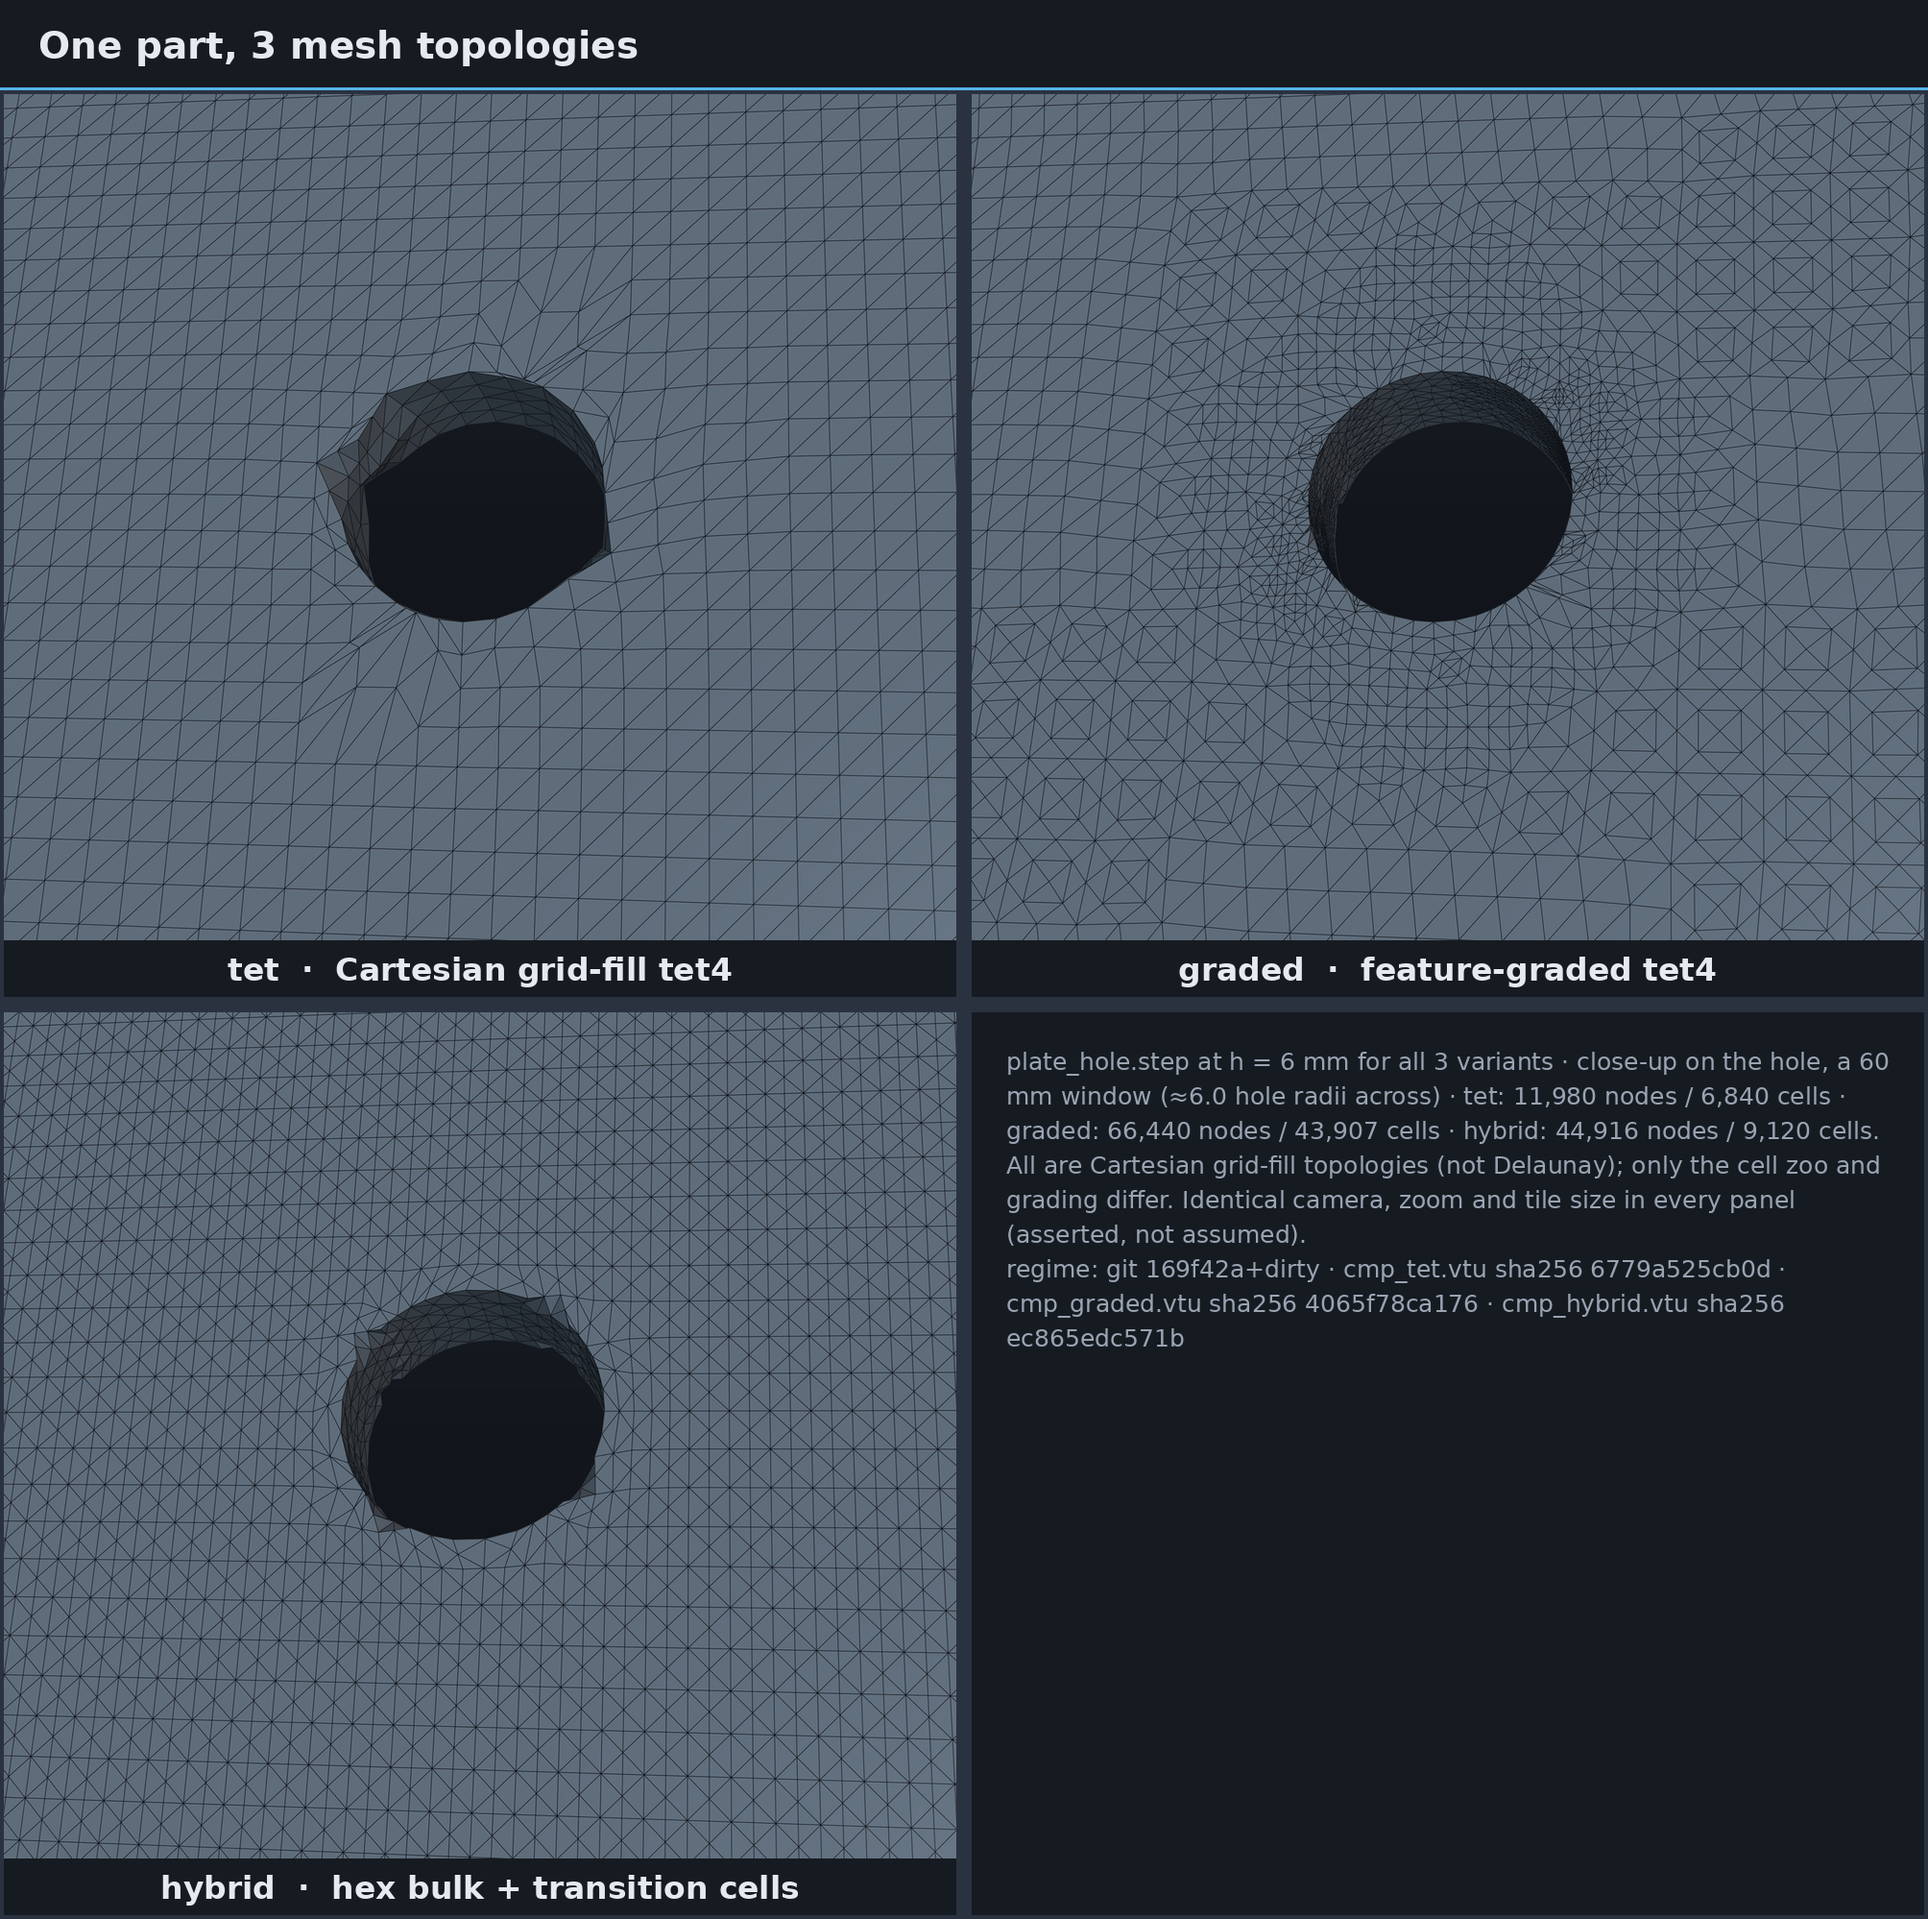
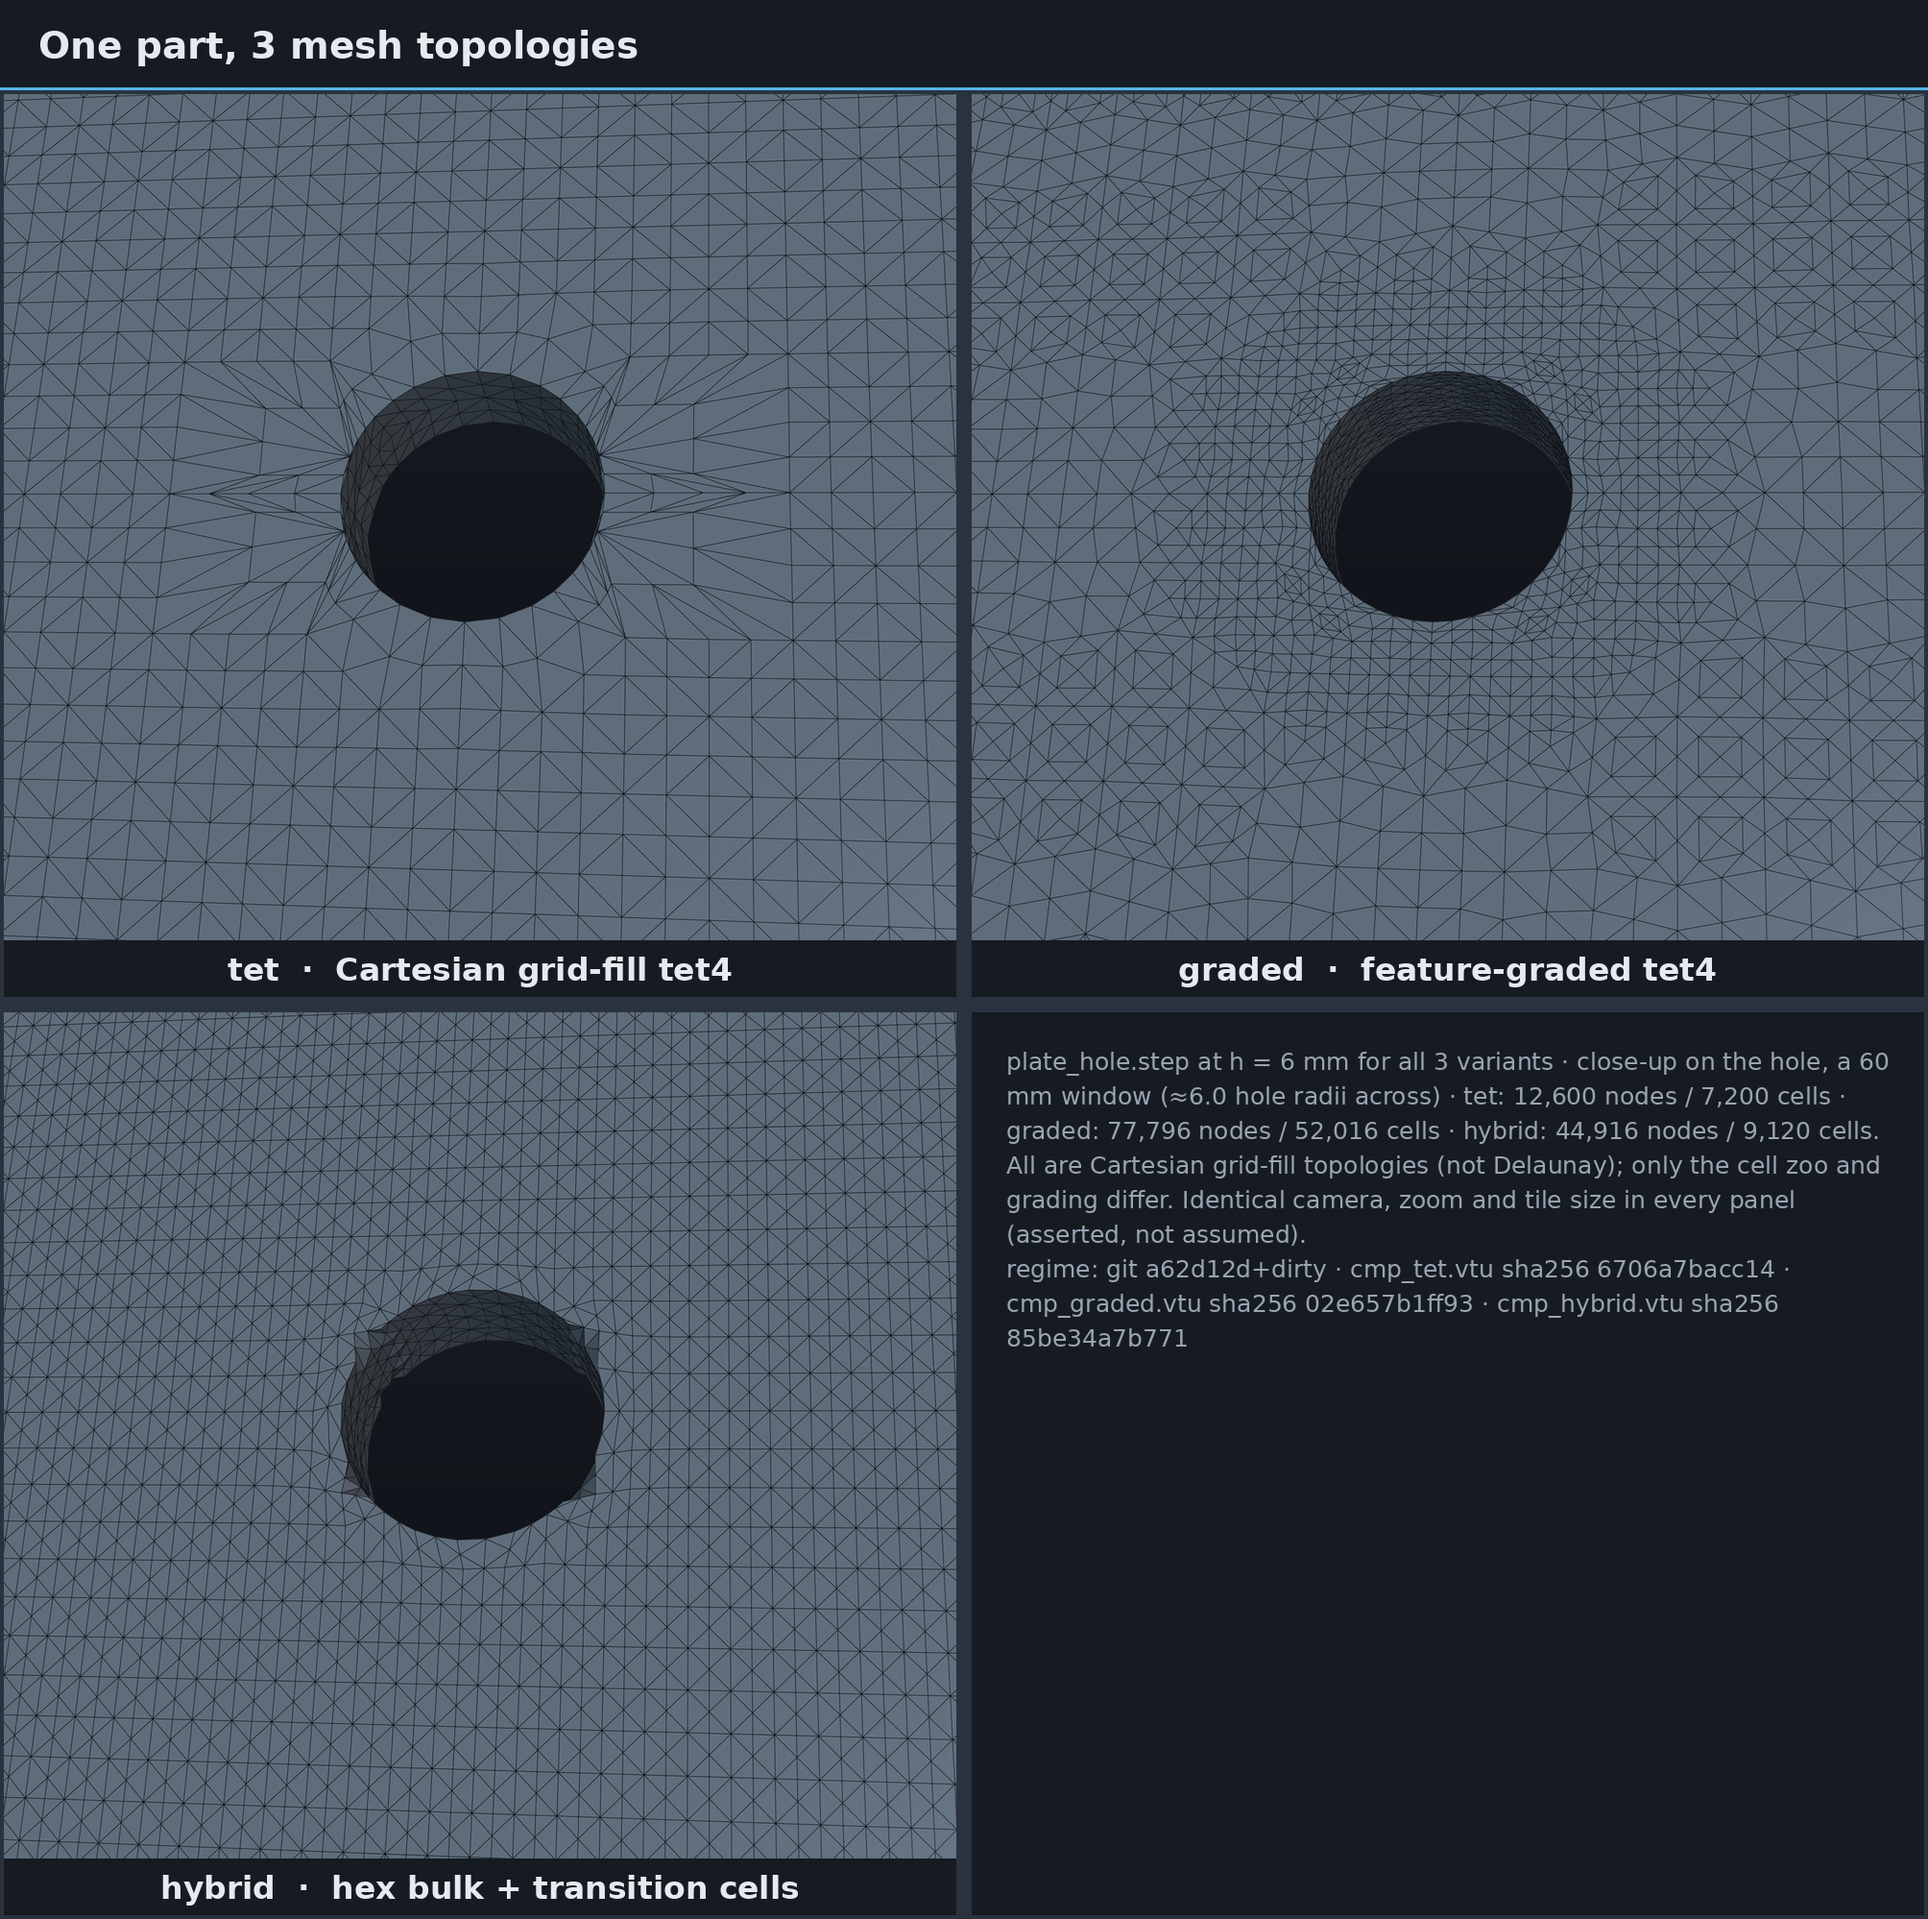
Regenerate the showcase on the symmetric mesher
Every artifact in docs/assets/showcase/ is re-rendered from fresh solves at
a62d12d, which is the point of the exercise: the previous set was solved at
169f42a and shows the asymmetric element pattern the last three commits removed.
The sphere gallery no longer carries the speckled fine-element patches around its
pole and seam, and the tet panel of compare_meshers.png shows a symmetric bore
instead of a lopsided one.

Element counts moved with the even-cell mirror-symmetric lattice, so the prose in
docs/SHOWCASE.md is re-synced to the new manifest — DOF, cell counts and wall
times for all five gallery parts and both comparison figures.

compare_grading.png's uniform leg is re-tuned from h = 3.8 mm to 4.2 mm. That
figure exists to compare where elements go at a MATCHED element budget, and the
new lattice put the old pairing 21.4% apart, which would have made the control
meaningless. 4.2 mm gives 43,024 cells against the graded leg's 45,424 — 5.6%
apart, and the neighbouring lattice step is 48,256, so this is the closest pairing
the quantisation allows. The number is stated in the tile footer and the manifest,
not just in the prose.

Cylinder's solve wall time halved (684 s -> 294 s) and the cone's rose 282k -> 381k
DOF; both are the even-cell lattice moving cell counts, not a solver change.

diff --git a/scripts/render_showcase.py b/scripts/render_showcase.py
@@ -349,10 +349,14 @@ GRADE_VIEW = (0.15, -0.35, 1.00)
 GRADE_UP = (0.0, 1.00, 0.35)
 GRADING_TILES = [
     MeshTile("grade_uniform", "uniform sizing field  (--no-feature)", "plate_hole",
-             # 3.8 mm against the graded leg's 5.6 mm is the matched-element-budget
+             # 4.2 mm against the graded leg's 5.6 mm is the matched-element-budget
              # control this figure exists for; promotion adds no cells, so curved
-             # geometry does not change the pairing.
-             "graded", 0.0038, no_feature=True, size=(GRADE_W, GRADE_H),
+             # geometry does not change the pairing. Re-tuned from 3.8 mm when the
+             # mirror-symmetric even-cell lattice (ADR-0036) moved the counts: the
+             # legs are 43,024 vs 45,424 cells, and the lattice quantises hard
+             # enough that the neighbouring h gives 48,256 — 5.3% low against 6.2%
+             # high, so this is the closest pairing available.
+             "graded", 0.0042, no_feature=True, size=(GRADE_W, GRADE_H),
              view=GRADE_VIEW, up=GRADE_UP, focus=GRADE_FOCUS, window=GRADE_WINDOW),
     MeshTile("grade_feature", "feature-graded sizing field", "plate_hole",
              "graded", 0.0056, size=(GRADE_W, GRADE_H),

diff --git a/docs/SHOWCASE.md b/docs/SHOWCASE.md
@@ -23,8 +23,8 @@ A one-line index of the same assets lives in
 ![Hero stress render](assets/showcase/hero.png)
 
 **`hero.png`** — `plate_hole` solved on the feature-graded mesher, shot from a
-low oblique angle across the whole plate (h = 6 mm, 66,440 nodes / 43,907 curved
-cells, 199,320 DOF; min-x face fixed, conserved +x resultant on max-x).
+low oblique angle across the whole plate (h = 6 mm, 77,796 nodes / 52,016 curved
+cells, 233,388 DOF; min-x face fixed, conserved +x resultant on max-x).
 von Mises is shown on the surface with displacement warped ×5000. The colour
 range is 0 – 2.9 MPa, clipped at the 99th percentile of the visible surface
 field; the true peak nodal value is 3.12 MPa, at the clamped-face singularity.
@@ -53,7 +53,7 @@ solve` invocation per part is in the manifest too.
 
 Flat plate with a central hole — the canonical stress-riser benchmark geometry.
 Feature-aware grading concentrates elements around the hole where the gradient
-lives. h = 6 mm, 43,907 curved cells, **199,320 solved DOF**, 257 s wall. h was
+lives. h = 6 mm, 52,016 curved cells, **233,388 solved DOF**, 102 s wall. h was
 3 mm while the shipped mesh was straight-edged; the exact curved boundary now
 renders a smoother hole at ~1/8 the cells.
 
@@ -66,7 +66,7 @@ python scripts/render_showcase.py --only plate_hole
 ![cantilever](assets/showcase/gallery_cantilever.png)
 
 End-loaded cantilever: linear bending stress distribution, maximum at the
-clamped root. h = 30 mm, 44,832 curved cells, **193,971 solved DOF**, 47 s wall.
+clamped root. h = 30 mm, 44,832 curved cells, **193,971 solved DOF**, 51 s wall.
 This is the geometry behind the Timoshenko tip-deflection verification (1.50%
 error,
 [bench/reports/p1-gate1-convergence.md](../bench/reports/p1-gate1-convergence.md)).
@@ -83,7 +83,7 @@ Curved-wall solid imported from STEP. Curvature-dominant sizing uses a 0.5×
 accuracy lattice, then the **authoritative solve mesh** is promoted to
 tet10/hex20 and its boundary mids are projected onto the exact BRep. The same
 curved volume elements are assembled, exported, and rendered. h = 12 mm,
-**555,543 solved DOF**, 684 s wall.
+**687,399 solved DOF**, 294 s wall.
 
 ```sh
 python scripts/render_showcase.py --only cylinder
@@ -96,8 +96,8 @@ python scripts/render_showcase.py --only cylinder
 Closed curved B-rep — the hardest case for a Cartesian grid fill. The shipped
 mesh is no longer a linear solve hidden behind a smoothed render: graded
 boundary topology, projected tet10 geometry, stiffness assembly, VTU export and
-Studio all consume the same authoritative node set. h = 8 mm, **541,323 solved
-DOF**, 112 s wall.
+Studio all consume the same authoritative node set. h = 8 mm, **520,551 solved
+DOF**, 89 s wall.
 
 ```sh
 python scripts/render_showcase.py --only sphere
@@ -109,8 +109,8 @@ python scripts/render_showcase.py --only sphere
 One watertight 3D Boolean solid: a round truncated cone fused into an
 overlapping spherical scoop. Sharp CAD-edge paths are recovered through the
 boundary graph under the same cell-quality/Jacobian gate, and the projected
-quadratic volume mesh is solved directly. h = 10 mm, **282,048 solved DOF**,
-84 s wall.
+quadratic volume mesh is solved directly. h = 10 mm, **380,667 solved DOF**,
+79 s wall.
 
 ```sh
 python scripts/render_showcase.py --only icecream_cone
@@ -121,7 +121,7 @@ python scripts/render_showcase.py --only icecream_cone
 ![Mesher comparison](assets/showcase/compare_meshers.png)
 
 **`compare_meshers.png`** — the same plate at h = 6 mm through three meshers,
-all three now on curved CAD geometry: `tet` (35,940 DOF), `graded` (199,320) and
+all three now on curved CAD geometry: `tet` (37,800 DOF), `graded` (233,388) and
 `hybrid` (134,748), whose transition zoo carries conforming mixed cells.
 All four panels share one camera on a 60 mm window across the hole (6 hole
 radii): at whole-plate scale the three topologies read as identical grey
@@ -211,10 +211,10 @@ python scripts/render_showcase.py --only compare_meshers
 
 ![Grading comparison](assets/showcase/compare_grading.png)
 
-**`compare_grading.png`** — uniform (`--no-feature`, h = 3.8 mm) versus
+**`compare_grading.png`** — uniform (`--no-feature`, h = 4.2 mm) versus
 feature-graded sizing (h = 5.6 mm) on the same part and mesher, with `h` tuned
-so the two legs land on a **matched element budget**: 43,358 vs 44,268 cells,
-2.1% apart (194,112 vs 201,318 DOF on the curved geometry — the grid quantizes
+so the two legs land on a **matched element budget**: 43,024 vs 45,424 cells,
+5.6% apart (190,320 vs 206,436 DOF on the curved geometry — the grid quantizes
 too hard to hit equal DOF exactly, so the honest control is element count; both
 figures are printed in the tile footers and the manifest).
 The comparison is therefore about *where*
